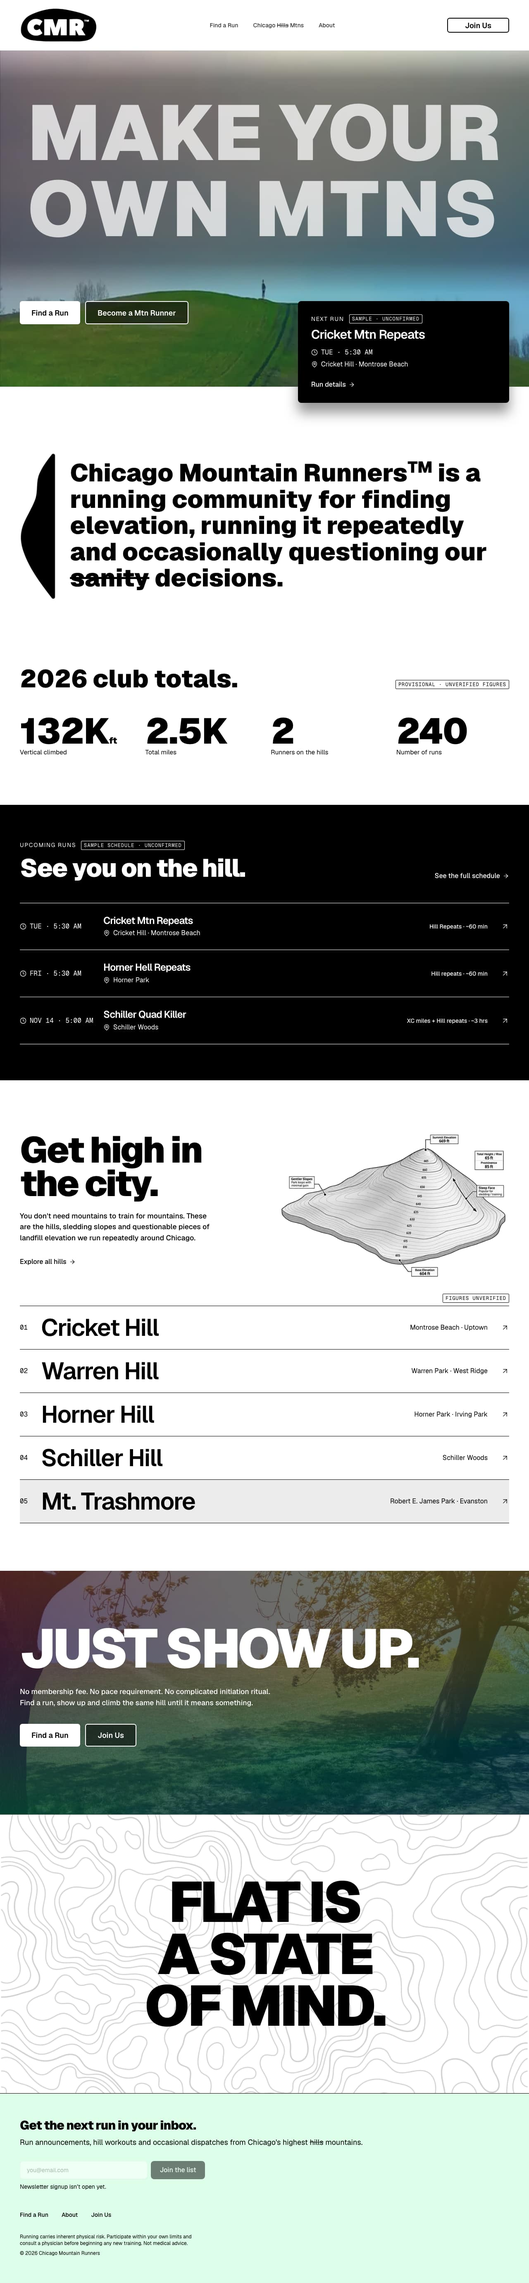
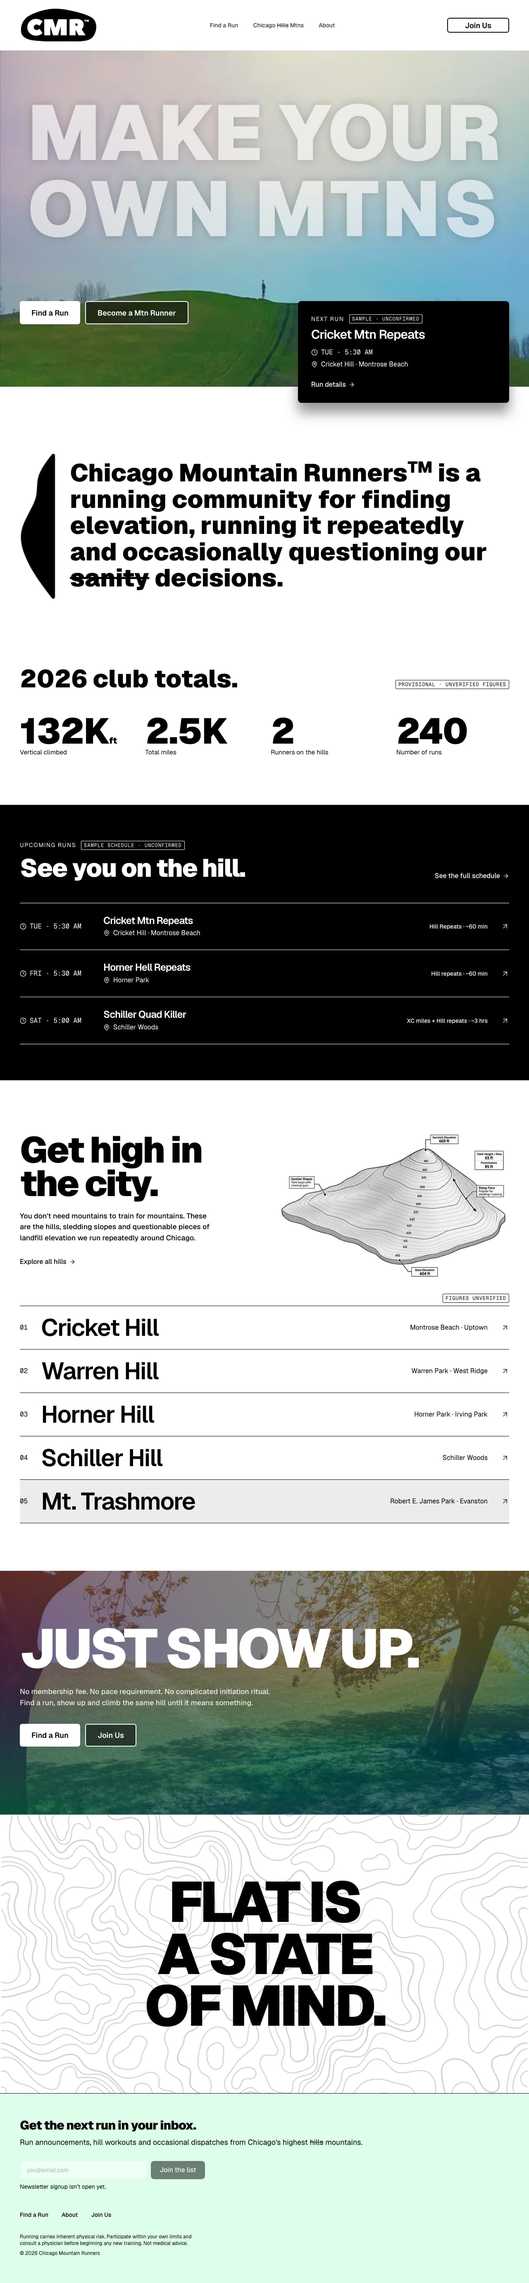
Restore pre-review hero and Just show up treatments; document contrast exceptions
Final Owner decision on PR #3: restore the original treatments and accept
their contrast shortfall for this iteration.

- Hero: headline back to 60% white with the soft halo; headline band removed.
- Just show up: back to the 30% shade and 90% white copy.
- Everything else unchanged, including the CTA treatments.
- Accepted accessibility exceptions, NOT WCAG AA compliant and not claimed to
  be: hero headline (measured 1.19-1.36:1, needs 3) and Just show up copy
  (3.55-4.04:1, needs 4.5). Documented in the components, tests, Work Item
  and PR. Thresholds are not weakened: all other photo-text targets stay
  asserted; the two exceptions are measured and recorded on every run.
- Tests updated; homepage baselines and review images regenerated; the
  before/after comparison images removed. The reverted refinement stays in the
  history (30323f1, 6773a46) as the tested alternative.

Changed region(s): [[0.0, 0.0, 1.0, 0.1246], [0.5625, 0.6855, 0.7188, 0.7167], [0.1875, 0.6855, 0.2188, 0.7167]]

diff --git a/src/components/home/HomeHero.tsx b/src/components/home/HomeHero.tsx
@@ -9,28 +9,6 @@ import { onDarkSurface } from "@/lib/surfaces";
 import { cn } from "@/lib/utils";
 
 /**
- * Headline legibility shade (accessibility deviation, Owner/GPT review of PR #3).
- * A horizontal band of the foreground token behind the headline only: full
- * strength across the headline's two line boxes, feathering out above and below
- * with eased stops so it reads as deeper sky rather than a stripe. The sky above
- * and the hill below keep their original brightness.
- */
-const SHADE_ALPHA = 45; // % of --foreground at full strength
-const shadeAt = (k: number) => `color-mix(in srgb, var(--foreground) ${SHADE_ALPHA * k}%, transparent)`;
-const HEADLINE_SHADE = `linear-gradient(to bottom, ${[
-  `${shadeAt(0)} 0`,
-  `${shadeAt(0.1)} calc(var(--f) * 0.25)`,
-  `${shadeAt(0.5)} calc(var(--f) * 0.5)`,
-  `${shadeAt(0.9)} calc(var(--f) * 0.75)`,
-  `${shadeAt(1)} var(--f)`,
-  `${shadeAt(1)} calc(100% - var(--f))`,
-  `${shadeAt(0.9)} calc(100% - var(--f) * 0.75)`,
-  `${shadeAt(0.5)} calc(100% - var(--f) * 0.5)`,
-  `${shadeAt(0.1)} calc(100% - var(--f) * 0.25)`,
-  `${shadeAt(0)} 100%`,
-].join(", ")})`;
-
-/**
  * Hero "Make your own MTNS" — Figma 1:377 (desktop), 78:279 (tablet),
  * 78:397 (mobile). Measurements below are relative to the hero's visible area
  * (Figma's desktop hero starts under the 122px navigation).
@@ -51,28 +29,24 @@ const HEADLINE_SHADE = `linear-gradient(to bottom, ${[
  *     Both are soft at desktop size until the original photo is supplied (D3).
  *   - "OWN MTNS" tracking is 0.048em (Figma: +10px at every size, which only
  *     matches line one's width on desktop).
- *   - Accessibility: headline at 75% white (Figma 60%) over a 45% shade confined
- *     to the headline band. Figma's 60% over pale sky measured 1.23–1.32:1; this
- *     measures ≥ 3.2:1 worst-case at every tested width (tests/e2e/contrast.mjs).
+ *
+ * ACCEPTED ACCESSIBILITY EXCEPTION (Owner decision, PR #3, 2026-11-08): the
+ * headline keeps Figma's ghosted 60% white, plus a soft halo. Its worst-region
+ * contrast over the sky is about 1.2–1.3:1, below the 3:1 AA minimum for large
+ * text. It is NOT WCAG AA compliant and is not claimed to be. A tested
+ * alternative (75% over a headline band) reached ≥ 3.19:1 and is recorded in
+ * .aiom/work/implement-cmr-homepage.md should the decision be revisited.
  */
 export function HomeHero({ next, now }: { next: RunOccurrence | null; now: Date }) {
-  // Headline shade geometry, derived from the headline's own values so it tracks
-  // it at every width: top = h1 top − feather; height = 2 lines + 2 feathers.
-  const pt = [52, 66, 115] as const;
-  const lineHeight = [52, 102, 204] as const;
-  const feather = [80, 96, 160] as const;
   const layout = fluidVars({
     "--hero-minh": [614, 670, 846],
-    "--hero-pt": pt,
-    "--hero-shade-top": [pt[0] - feather[0], pt[1] - feather[1], pt[2] - feather[2]],
-    "--hero-shade-h": [2 * lineHeight[0] + 2 * feather[0], 2 * lineHeight[1] + 2 * feather[1], 2 * lineHeight[2] + 2 * feather[2]],
-    "--hero-shade-f": feather,
+    "--hero-pt": [52, 66, 115],
     "--hero-actions-mt": [74, 34, 154],
     "--hero-card-mt": [48, 40, 40],
     "--hero-card-w": [345, 380, 542],
     "--hero-cta-h": [48, 56, 56],
   });
-  const heading = fluidType([48, 98, 209], lineHeight);
+  const heading = fluidType([48, 98, 209], [52, 102, 204]);
   const cta = fluidType([15, 18, 18], [23, 27, 27]);
 
   // Two Figma rasters: desktop (1:377) and tablet/mobile (78:279, 78:397) use
@@ -104,17 +78,7 @@ export function HomeHero({ next, now }: { next: RunOccurrence | null; now: Date 
             />
           </picture>
         }
-      >
-        <div
-          data-slot="headline-shade"
-          style={{ backgroundImage: HEADLINE_SHADE }}
-          className={cn(
-            "absolute inset-x-0",
-            "top-(--hero-shade-top-a) h-(--hero-shade-h-a) [--f:var(--hero-shade-f-a)]",
-            "md:top-(--hero-shade-top-b) md:h-(--hero-shade-h-b) md:[--f:var(--hero-shade-f-b)]",
-          )}
-        />
-      </PhotoBackdrop>
+      />
 
       <Container className="relative pt-(--hero-pt-a) md:pt-(--hero-pt-b)">
         <h1
@@ -122,8 +86,10 @@ export function HomeHero({ next, now }: { next: RunOccurrence | null; now: Date 
           style={heading}
           className={cn(
             FLUID_TYPE,
-            // 75% (Figma 60%): still ghosted, with the headline shade ≥ 3:1 (see above).
-            "text-center font-black opacity-75",
+            "text-center font-black opacity-60",
+            // Legibility halo (not in Figma): a soft shadow in the foreground token
+            // separates the ghosted 60% letters from pale sky. See Owner decision D6.
+            "[text-shadow:0_0_0.12em_color-mix(in_srgb,var(--foreground)_30%,transparent)]",
           )}
         >
           {/* The space keeps the accessible name "MAKE YOUR OWN MTNS" (blocks don't add one). */}

diff --git a/tests/e2e/home.spec.ts b/tests/e2e/home.spec.ts
@@ -359,16 +359,38 @@ test.describe("accessibility", () => {
    * are 15–18px semibold and the copy 16–18px medium, so neither counts as large.
    */
   const PHOTO_TEXT: [string, (p: Page) => Locator, number][] = [
-    ["hero headline", (p) => p.locator("#hero-heading"), 3],
     ["hero Find a Run", (p) => hero(p).locator("[data-slot=cta-link]").nth(0), 4.5],
     ["hero Become a Mtn Runner", (p) => hero(p).locator("[data-slot=cta-link]").nth(1), 4.5],
     ["Just show up heading", (p) => p.locator("#just-show-up-heading"), 3],
-    ["Just show up copy", (p) => p.locator("#just-show-up-heading + p"), 4.5],
     ["Just show up Find a Run", (p) => jsu(p).locator("[data-slot=cta-link]").nth(0), 4.5],
     ["Just show up Join Us", (p) => jsu(p).locator("[data-slot=cta-link]").nth(1), 4.5],
   ];
 
-  test("text over photography meets WCAG AA in its worst region", async ({ page }, info) => {
+  /**
+   * ACCEPTED ACCESSIBILITY EXCEPTIONS (Owner decision on PR #3, 2026-11-08).
+   * The Owner restored the approved ghosted hero headline (60% white with a soft
+   * halo) and the original Just show up treatment (30% shade, 90% white copy) and
+   * accepted their known contrast shortfall for this iteration. They do NOT meet
+   * WCAG AA 1.4.3 in their worst region and are not claimed to. They are measured
+   * and recorded on every run, but deliberately not asserted against a threshold
+   * (thresholds are not weakened; the two elements are simply outside the gate).
+   * Every other photo-text target above stays asserted. See the Work Item.
+   */
+  const ACCEPTED_EXCEPTIONS: [string, (p: Page) => Locator, number][] = [
+    ["hero headline", (p) => p.locator("#hero-heading"), 3],
+    ["Just show up copy", (p) => p.locator("#just-show-up-heading + p"), 4.5],
+  ];
+
+  test("accepted exceptions are still measured and recorded (not asserted)", async ({ page }, info) => {
+    await loadAll(page);
+    for (const [name, locate, need] of ACCEPTED_EXCEPTIONS) {
+      const r = await measureTextContrast(page, locate(page));
+      info.annotations.push({ type: `exception ${name}`, description: `worst ${r.worst} vs ${need} needed (p10 ${r.p10}, median ${r.median}) — below threshold by Owner decision` });
+      expect(r.cells, `${name}: measurable regions`).toBeGreaterThan(0);
+    }
+  });
+
+  test("text over photography meets WCAG AA in its worst region (excluding the accepted exceptions)", async ({ page }, info) => {
     await loadAll(page);
     for (const [name, locate, need] of PHOTO_TEXT) {
       const r = await measureTextContrast(page, locate(page));
@@ -378,7 +400,7 @@ test.describe("accessibility", () => {
     }
   });
 
-  test("photo text stays legible at intermediate widths, where the crop shifts", async ({ page }, info) => {
+  test("photo text outside the accepted exceptions stays legible at intermediate widths", async ({ page }, info) => {
     test.skip(info.project.name !== "desktop", "one sweep is enough; it sets its own widths");
     for (const width of [320, 600, 900, 1024, 1180, 1280, 1366, 1600, 1920]) {
       await page.setViewportSize({ width, height: 1000 });

diff --git a/src/components/home/JustShowUp.tsx b/src/components/home/JustShowUp.tsx
@@ -18,11 +18,14 @@ import { cn } from "@/lib/utils";
  * Figma does — anchored ~6% from the top on desktop, centered elsewhere —
  * under the same baked mesh gradient as the hero at 50%.
  *
- * Deviation (accessibility): a 42% black legibility shade over the photo, and
- * copy at 100% white instead of 75%. Worst-region contrast must hold on every
- * platform the site is tested on: at 38% the copy measured ≥ 4.85:1 on macOS but
- * 4.47:1 at 1280px on Linux CI (text wraps differently over bright foliage), so
- * the shade carries headroom — tests/e2e/contrast.mjs.
+ * Legibility adjustment (not in Figma): a 30% black shade over the photo and copy
+ * at 90% white instead of 75%. The heading clears 3:1 in its worst region.
+ *
+ * ACCEPTED ACCESSIBILITY EXCEPTION (Owner decision, PR #3, 2026-11-08): the body
+ * copy measures about 3.6–4.0:1 in its worst region where lines cross bright
+ * foliage, below the 4.5:1 AA minimum. It is NOT WCAG AA compliant and is not
+ * claimed to be. A tested alternative (42% shade, full-white copy) reached
+ * ≥ 4.5:1 and is recorded in .aiom/work/implement-cmr-homepage.md.
  *
  * Tracking is −0.045em at every size (Figma: −6.48px everywhere, which is
  * −0.045em at 144px but makes letters collide at 56px — "JUSTSHOW" in the
@@ -61,11 +64,9 @@ export function JustShowUp() {
           />
         }
       >
-        {/* Legibility shade (not in Figma). The previous 30% shade with 90% copy passed a
-            background-only sample but failed the worst-region test (copy 3.56–4.04:1) where
-            lines cross bright foliage. With full-white copy, 35% is the macOS minimum and 38%
-            still failed on Linux CI (4.47:1 at 1280px); 42% passes on both. */}
-        <div data-slot="legibility-shade" className="absolute inset-0 bg-primary/42" />
+        {/* Legibility shade (not in Figma). Keeps the heading ≥ 3:1; the copy remains an
+            accepted exception below 4.5:1 (see the component comment). */}
+        <div data-slot="legibility-shade" className="absolute inset-0 bg-primary/30" />
       </PhotoBackdrop>
       <Container>
         <h2
@@ -81,7 +82,7 @@ export function JustShowUp() {
             FLUID_TYPE,
             // Tablet measure 540, not Figma's 550: Figma's text renders ~1% wider and breaks
             // before "ritual."; at 550 the browser fits it, which moves the CTAs up a line.
-            "mt-(--jsu-copy-mt-a) font-medium text-primary-foreground md:mt-(--jsu-copy-mt-b) md:max-w-[540px] lg:max-w-[630px]",
+            "mt-(--jsu-copy-mt-a) font-medium text-primary-foreground/90 md:mt-(--jsu-copy-mt-b) md:max-w-[540px] lg:max-w-[630px]",
           )}
         >
           No membership fee. No pace requirement. No complicated initiation ritual. Find a run, show up and climb the

diff --git a/tests/components/home/HomeHero.test.tsx b/tests/components/home/HomeHero.test.tsx
@@ -63,15 +63,6 @@ describe("HomeHero", () => {
     expect(container.querySelector("[data-slot=mesh-gradient]")).toHaveClass("opacity-20");
   });
 
-  it("keeps the ghosted headline legible: 75% letters over a shade confined to the headline band", () => {
-    const { container } = render(<HomeHero next={next} now={now} />);
-    expect(screen.getByRole("heading", { level: 1 })).toHaveClass("opacity-75");
-    const shade = container.querySelector("[data-slot=headline-shade]") as HTMLElement;
-    expect(shade.closest("[aria-hidden]")).not.toBeNull();
-    expect(shade.style.backgroundImage).toMatch(/^linear-gradient\(to bottom, /);
-    expect(shade.style.backgroundImage).toContain("var(--foreground) 45%");
-  });
-
   it("has no axe violations", async () => {
     const { container } = render(<HomeHero next={next} now={now} />);
     expect(await axeViolations(container)).toEqual([]);

diff --git a/.aiom/work/implement-cmr-homepage.md b/.aiom/work/implement-cmr-homepage.md
@@ -21,20 +21,22 @@ validation_state: passed
 blocker_state: awaiting-owner-review
 current_responsibility: owner
 created_at: '2026-11-07T23:52:00.000Z'
-updated_at: '2026-11-08T08:00:00.000Z'
+updated_at: '2026-11-08T10:00:00.000Z'
 ---
 ## Status
 
-**All six slices implemented and validated; awaiting Owner review of the
-complete homepage.** Branch `feat/cmr-homepage` (from `main` at `e610c25`),
-PR #3 (https://github.com/mikewhitakerdesign/cmr-site/pull/3), not merged, not
-deployed. Owner/GPT review (2026-11-08) accepted the architecture, composition,
-scheduling model, MWDS integration and responsive strategy, and asked for the
-hero headline contrast to be fixed and photographic contrast validation to be
-strengthened — done in "Photographic contrast" below. Final head `41e9653`; CI (`validate`, `browser`, Linux) passes. `validation_state: passed`
-covers the deterministic checks only. Final Owner/GPT review, merge
-authorization, and the release dependencies below are outstanding. The planning record from
-discovery follows the implementation record as history.
+**All six slices implemented and validated; awaiting final Owner verification.**
+Branch `feat/cmr-homepage` (from `main` at `e610c25`), PR #3
+(https://github.com/mikewhitakerdesign/cmr-site/pull/3), not merged, not
+deployed. `validation_state: passed` covers the deterministic checks only.
+
+**Final Owner decision (2026-11-08): the pre-review ("before") treatments are
+restored** for the hero headline and Just show up (below), with their known
+contrast shortfall **accepted as documented accessibility exceptions** for this
+iteration. Those two elements are **not WCAG AA compliant and are not claimed
+to be**. A contrast refinement (headline band; 42% shade) was built, measured
+and then reverted at the Owner's direction; it is kept in the record below as
+the tested alternative should the decision be revisited.
 
 ## Owner authorization and approved decisions (2026-11-07)
 
@@ -146,7 +148,40 @@ fill), baked mesh gradient, community mark (cropped and rotated as framed),
 Mt. Trashmore illustration and topo pattern (unaltered). No stock, generated,
 or redrawn imagery.
 
-### Photographic contrast: treatment, method, results (PR #3 review, 2026-11-08)
+### Accepted accessibility exceptions (Owner decision, 2026-11-08)
+
+After the contrast refinement (kept below), the Owner decided to restore the
+approved visual treatments and accept their contrast limits for this iteration.
+Shipped state and measured worst-region contrast (method below; macOS Chromium,
+13 widths, 320–1920):
+
+| Text | Shipped treatment | Needs | Measured worst region | Status |
+|---|---|---|---|---|
+| **Hero headline "MAKE YOUR OWN MTNS"** | 60% white (as Figma) with the soft halo; no band | 3.0 (large text) | **1.19–1.36:1** (1.32 / 1.23 / 1.25 / 1.29 at 393 / 768 / 1440 / 1732) | **Exception. Does not meet WCAG AA 1.4.3.** |
+| **Just show up body copy** | 90% white over a 30% shade | 4.5 | **3.55–4.04:1** (4.04 / 3.66 / 3.56 / 3.76) | **Exception. Does not meet WCAG AA 1.4.3.** |
+| Just show up heading | 30% shade | 3.0 | 3.57–3.93:1 | Meets 3:1 (asserted) |
+| Hero and Just show up CTAs | existing treatments (hero outline on 50% black fill) | 4.5 | ≥ 5.27:1 (outline), ≥ 11.67:1 (others) | Meets (asserted) |
+
+Scope of the exception: only the hero headline and the Just show up body copy.
+The hero headline is large display text whose meaning is also carried by the
+page title and the `h1` text (screen readers and text-only use are unaffected);
+the shortfall affects sighted low-contrast viewing. No threshold was changed:
+`tests/e2e/home.spec.ts` keeps its 3:1 / 4.5:1 gates for all other targets, and
+the two exceptions are measured and recorded on every run
+(`exception …` annotations) but not asserted. If the treatments change, move
+them back into the asserted set.
+
+Measured Linux CI behavior of the copy at 30% was not asserted, so the
+exception range above is macOS; CI is expected to measure about 0.5:1 lower.
+
+**Tested alternative (reverted, available on request):** commits `30323f1` and
+`6773a46` on this branch. Hero headline 75% over a 45% `--foreground` band
+confined to the headline (≥ 3.19:1); Just show up 42% shade with full-white copy
+(≥ 5.38:1 on macOS and passing on Linux CI). The comparison images were removed
+from `docs/review/` because they no longer describe the shipped state; they can
+be regenerated from those commits.
+
+### Photographic contrast: method and the reverted refinement (PR #3 review, 2026-11-08)
 
 **Review request.** Treat the hero headline as meaningful heading text (WCAG
 AA large text, 3:1); keep the photograph, size, placement, typography and
@@ -236,7 +271,7 @@ review; **✓** accepted in the Owner/GPT review of 2026-11-08.
 | 3 | "OWN MTNS" tracking | +10px at every size (overspaced on mobile) | 0.048em (equal to Figma at desktop) | C |
 | 4 | Next-run card, tablet and mobile | Flattened text, no icons or arrow; no radius | Clock, pin, and arrow kept (they label time and place); radius stays desktop-only | I ✓ (icons), A (radius) |
 | 5 | Hero outline CTA | White outline, no fill; label 1.5–1.9:1 over sky | 50% black fill; worst region ≥ 5.27:1 | L |
-| 6 | Hero h1 | 60% white over pale sky; 1.23–1.32:1 | 75% white over a 45% `--foreground` band confined to the headline (feathered); worst region 3.19–3.66:1 across 320–1920. Halo removed | L |
+| 6 | Hero h1 | 60% white over pale sky | **As Figma** (60%) plus a soft halo in the foreground token. Worst region 1.19–1.36:1: **accepted WCAG AA exception** (Owner, 2026-11-08) | Exception |
 | 7 | Community block | Desktop starts 9px left of the container and text overflows its box; tablet mark 39px high | Aligned to the container; mark centered at every size | C |
 | 8 | Club totals surface | Cream fill hidden by a white child; white rules invisible | White, no rules, as rendered; empty slot 1:254 holds the provisional marker (below the figures on tablet and mobile) | C, R (Figma cleanup) |
 | 9 | Display tracking (JSU, Flat, hills h2, hill names, run heading, stat values) | Fixed px at every size; collides on mobile ("JUSTSHOW") | em from the desktop ratio; tablet/mobile slightly wider than Figma | C ✓ |
@@ -244,7 +279,7 @@ review; **✓** accepted in the Owner/GPT review of 2026-11-08.
 | 11 | Run rows, tablet and mobile | No icons, ↗, or closing rule; link centered without arrow | As drawn | A |
 | 12 | "Explore all hills", tablet and mobile | Absent (only path to `/hills` from the section) | Present, no arrow, in the space Figma leaves | I ✓ |
 | 13 | Mt. Trashmore grey row | Grey fill at every size | Read as "featured hill" (the illustrated one); same fill is hover elsewhere | ✓ |
-| 14 | Just show up | Copy 75% white over photo + 50% gradient; heading 2.6–2.8:1, copy below 3:1 | 42% black shade + copy at 100% (was 30% / 90%, which failed the worst-region test at 3.56–4.04:1; 38% failed on Linux at 4.47:1); heading ≥ 4.90:1, copy ≥ 5.38:1 (macOS) | L |
+| 14 | Just show up | Copy 75% white over photo + 50% gradient; heading 2.6–2.8:1, copy below 3:1 | 30% black shade + copy at 90%. Heading 3.57–3.93:1 (meets 3:1); copy 3.55–4.04:1: **accepted WCAG AA exception** (Owner, 2026-11-08) | L (heading), Exception (copy) |
 | 15 | Just show up, tablet copy measure | 550 | 540 (Figma's text renders ~1% wider; keeps its line breaks) | C |
 | 16 | Topo pattern | 20% layer opacity | Already in the exported PNG; not re-applied (a first attempt applied it twice) | C |
 | 17 | Flat statement, desktop | Text box overhangs the container by 7px | Centered in the container | C |
@@ -258,11 +293,11 @@ review; **✓** accepted in the Owner/GPT review of 2026-11-08.
 Deterministic checks (evidence, not Owner acceptance):
 
 - `npm run lint`, `npx tsc --noEmit`, `npm run tokens:check`: pass.
-- `npm test`: **189/189** (was 120; +69: fluid 8, schedule 21, hero 9,
+- `npm test`: **188/188** (was 120; +68: fluid 8, schedule 21, hero 8,
   community + totals 8, runs 8, hills 8, closing sections 7).
 - `npm run build`: pass; `/` prerendered with 1h revalidation; every run and
   hill route prerenders.
-- `npm run test:e2e` (Chromium 393/768/1440): **94 passed, 8 skipped**
+- `npm run test:e2e` (Chromium 393/768/1440): **97 passed, 8 skipped**
   (desktop-only sweeps and hover tests on other projects, plus the foundation's
   skips; after the PR #3 refinement). Includes: Figma geometry (hero, card, CTAs, section heights ±2px, run
   and hill row heights, display sizes at each frame), card overhang and
@@ -270,7 +305,9 @@ Deterministic checks (evidence, not Owner acceptance):
   1920, CTA and row navigation (row clicks away from the link text), keyboard
   order, focus ring colors per surface, hover states, reduced motion, axe WCAG
   2.2 AA on the whole page including color contrast (0 violations), worst-region
-  contrast of all seven photo-text targets at each frame plus a sweep at 320,
+  contrast of the five photo-text targets outside the accepted exceptions at each
+  frame (hero headline and Just show up copy are measured and recorded, not
+  asserted) plus a sweep at 320,
   600, 900, 1024, 1180, 1280, 1366, 1600 and 1920 (`contrast.mjs`), and no
   off-site requests.
 - `npm run test:visual`: **12/12** — the 9 foundation baselines unchanged; the 3
@@ -304,15 +341,16 @@ not a claim of pixel-perfect fidelity; the differences are listed above.
 
 ### Open Owner decisions
 
-1. **Final review of the accessibility treatments** (deviations 5, 6, 14): the
-   headline band and 75% letters, and the Just show up 42% shade with full-white
-   copy. Alternative on record: 60% letters with a 55% band (keeps Figma's letter
-   opacity, greyer sky).
+1. **Verify the restored treatments and the documented exceptions** (deviations
+   6 and 14; "Accepted accessibility exceptions"). Decided 2026-11-08; shown here
+   so final verification can confirm them. Revisit before launch if WCAG AA
+   conformance is required for the hero headline or the Just show up copy; the
+   tested fix is on this branch's history.
 2. **Figma cleanup** (design-side, not blocking): the totals surface and empty
-   frame 1:254 (8); consider recording the contrast treatments in Figma.
+   frame 1:254 (8).
 3. **Merge** of the PR.
 
-Resolved in the 2026-11-08 review: hero headline contrast (now ≥ 3:1), uniform
+Resolved in the 2026-11-08 review: hero headline contrast (decided: accepted exception, original treatment restored), uniform
 crop, em tracking, featured Mt. Trashmore, Explore all hills and card icons on
 tablet and mobile, hover/focus patterns, provisional markers.
 
@@ -337,7 +375,7 @@ tablet and mobile, hover/focus patterns, provisional markers.
 | Copy matches Figma; data from `src/lib`; unverified data marked; nothing fabricated | Met |
 | Next run chronological from Chicago now, fresh via revalidation | Met (hourly) |
 | One h1, heading outline, alt text, keyboard order, focus ≥ 3:1, axe clean | Met |
-| Text over photography meets WCAG AA in its worst region (no exceptions) | Met — all seven targets, 11 widths |
+| Text over photography meets WCAG AA in its worst region | **Partially met**: CTAs and the Just show up heading meet it (asserted); the hero headline and Just show up copy do **not** and are Owner-accepted exceptions (not claimed compliant) |
 | Reduced motion removes transitions | Met |
 | No new runtime dependency; no MWDS change; shared UI unchanged with tests and baselines passing | Met |
 | Lint, typecheck, tokens, Vitest, build, Playwright, visual pass | Met locally; CI green on PR #3 |

diff --git a/docs/review/cmr-homepage/README.md b/docs/review/cmr-homepage/README.md
@@ -1,6 +1,6 @@
 # CMR homepage — review evidence
 
-Captured 2026-11-08 (updated after the PR #3 accessibility refinement) from the production build (`npm run build && next start`)
+Captured 2026-11-08 (regenerated after the Owner restored the pre-review treatments) from the production build (`npm run build && next start`)
 on branch `feat/cmr-homepage`, Chromium, 1× device pixel ratio, after all lazy
 images loaded. Figma references are read-only renders of the CMR file
 (`hLEeAchFtgd1WFtboIChil`): Home / Desktop `1:10` (1732 wide), Tablet `1:451`,
@@ -11,20 +11,16 @@ Mobile `1:884`.
 | `build-393.jpg`, `build-768.jpg`, `build-1440.jpg`, `build-1732.jpg` | Full page at the Figma frame widths (1440 = the desktop frame's 1400 container state; 1732 = the Figma frame width) |
 | `build-1024.jpg`, `build-1280.jpg` | Full page at intermediate widths with no Figma frame (desktop layout, fluid type) |
 | `figma-vs-build-393.jpg`, `-768.jpg`, `-1732.jpg` | Three panels: **Figma** · **build** · 50% overlay (Figma under build). Downscaled for size |
-| `hero-before-after-1732.jpg`, `-768.jpg`, `-393.jpg` | Hero accessibility refinement: **Figma** · **before** (PR #3 at `8fcb524`: 60% headline, halo) · **after** (75% headline over a shade confined to the headline band) |
-| `jsu-before-after-1732.jpg`, `-768.jpg`, `-393.jpg` | Just show up: **Figma** · **before** (30% shade, 90% copy) · **after** (42% shade, 100% copy) |
 
-The "before" panels are the current build with the previous CSS restored
-(headline 60% opacity with the 0.12em halo and no band; 30% shade with 90%
-copy), captured at the same widths.
+The earlier before/after comparison images were removed after the Owner restored the pre-review treatments (see the work item); regenerate from commits `30323f1`/`6773a46` if needed.
 
 How to read the overlays:
 
-- **Accessibility-driven deviations** (contrast over photography, each measured
-  with `tests/e2e/contrast.mjs`): the hero headline at 75% over a shade behind
-  the headline band, the outline CTAs' 50% black fill, and the Just show up 42%
-  shade with full-white copy. These are the darker areas you will see compared
-  with Figma.
+- **Accessibility-related deviations**: the outline CTAs' 50% black fill and the
+  Just show up 30% shade with 90% copy (both measured with
+  `tests/e2e/contrast.mjs`). **Accepted exceptions, not WCAG AA compliant:** the
+  hero headline (60% with halo, about 1.2–1.4:1) and the Just show up body copy
+  (about 3.6–4.0:1) — Owner decision, 2026-11-08.
 - **Design decisions accepted in review** (not accessibility): uniform photo
   crop, em-based tracking, container alignment, featured Mt. Trashmore row,
   Explore all hills and card icons on tablet and mobile, provisional markers.
